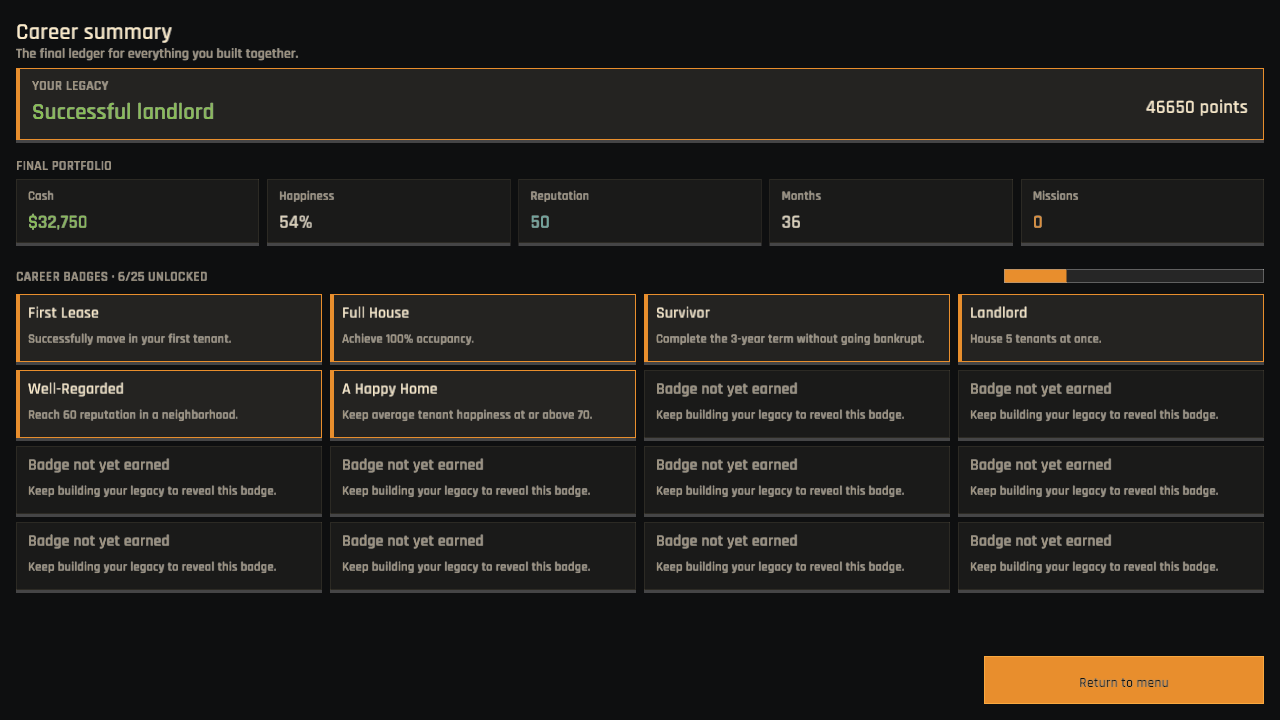
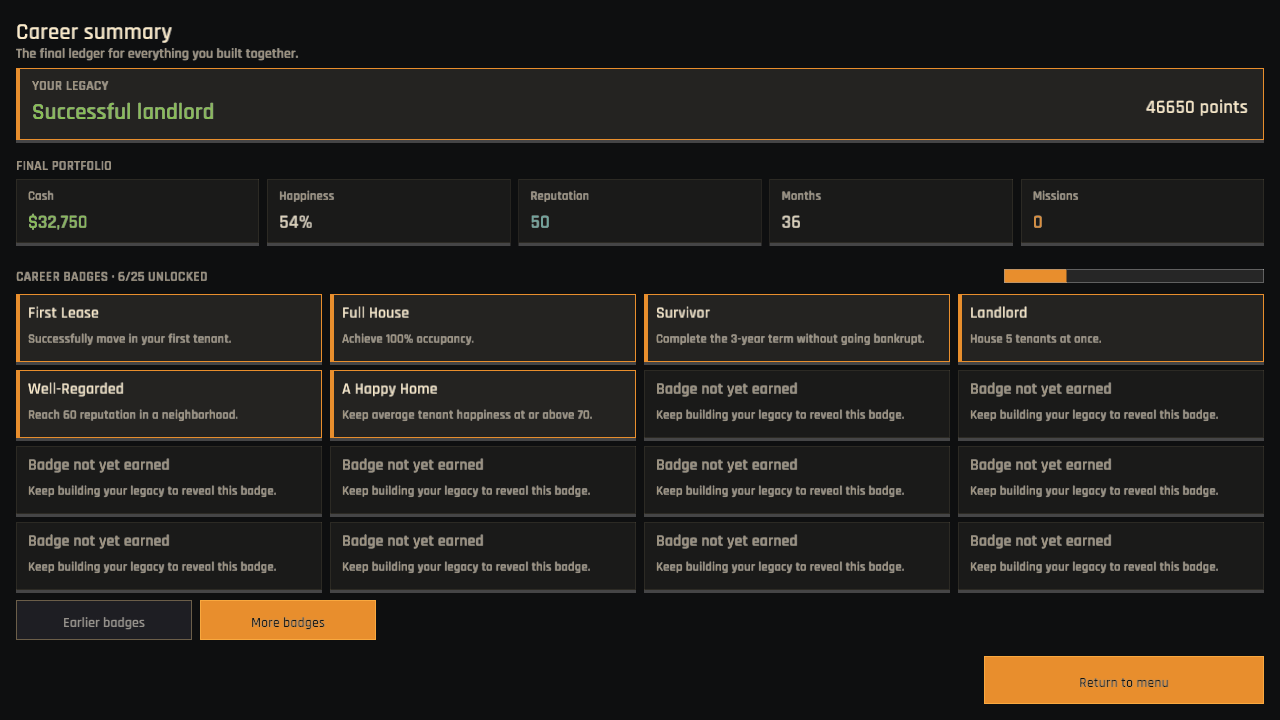
The final ledger turns every badge page before it closes (paged career achievements)
Make all career badges reachable through touch-sized Earlier badges and More badges controls backed by transient page state. Keep earned achievements ordered first, preserve the progress meter, and reserve the permanent Return to menu action at every size.

Add deterministic later-page career captures at desktop and 640x480.

Verified with 131 passing tests (1 ignored), first-page and later-page career captures, formatting, diff and Rust line-count checks, and publish.ps1 for Windows, WebGL, and preview deployment.

Changed region(s): [[0.1562, 0.825, 0.3125, 0.8861], [0.0312, 0.8556, 0.125, 0.8861]]

diff --git a/src/ui/career_summary.rs b/src/ui/career_summary.rs
@@ -61,7 +61,9 @@ pub fn draw_career_summary(state: &GameplayState) -> Option<UiAction> {
     let achievement_y = stat_y + 72.0 + space::LG;
     let button_h = 48.0;
     let button_y = page.bottom() - button_h;
-    draw_achievements(state, page, achievement_y, button_y - space::LG);
+    if let Some(action) = draw_achievements(state, page, achievement_y, button_y - space::LG) {
+        return Some(action);
+    }
 
     let button_w = page.w.min(280.0);
     if button_at(
@@ -203,7 +205,7 @@ fn draw_stat_cards(page: Rect, y: f32, stats: &[(String, String, Color); 5]) {
     }
 }
 
-fn draw_achievements(state: &GameplayState, page: Rect, y: f32, bottom: f32) {
+fn draw_achievements(state: &GameplayState, page: Rect, y: f32, bottom: f32) -> Option<UiAction> {
     let unlocked = state.achievements.unlocked.len();
     let total = state.achievements.list.len().max(1);
     draw_ui_text(
@@ -228,8 +230,13 @@ fn draw_achievements(state: &GameplayState, page: Rect, y: f32, bottom: f32) {
     let columns = if page.w >= 1000.0 { 4 } else { 3 };
     let gap = space::SM;
     let card_h = 68.0;
-    let rows = ((bottom - grid_y + gap) / (card_h + gap)).floor().max(1.0) as usize;
-    let visible = rows * columns;
+    let pager_h = 48.0;
+    let rows = ((bottom - grid_y - pager_h + gap) / (card_h + gap))
+        .floor()
+        .max(1.0) as usize;
+    let page_size = rows * columns;
+    let page_count = total.div_ceil(page_size);
+    let badge_page = state.career_badges_page.min(page_count - 1);
     let card_w = (page.w - gap * (columns - 1) as f32) / columns as f32;
 
     let ordered = state
@@ -244,7 +251,11 @@ fn draw_achievements(state: &GameplayState, page: Rect, y: f32, bottom: f32) {
                 .iter()
                 .filter(|achievement| !state.achievements.is_unlocked(&achievement.id)),
         );
-    for (index, achievement) in ordered.take(visible).enumerate() {
+    for (index, achievement) in ordered
+        .skip(badge_page * page_size)
+        .take(page_size)
+        .enumerate()
+    {
         let row = index / columns;
         let column = index % columns;
         draw_achievement_card(
@@ -258,6 +269,33 @@ fn draw_achievements(state: &GameplayState, page: Rect, y: f32, bottom: f32) {
             ),
         );
     }
+    if page_count > 1 {
+        let controls_y = bottom - 40.0;
+        let controls_w = page.w.min(360.0);
+        let gap = space::SM;
+        let button_w = (controls_w - gap) * 0.5;
+        if button_at(
+            Rect::new(page.x, controls_y, button_w, 40.0),
+            "Earlier badges",
+            badge_page > 0,
+            Tone::Secondary,
+        ) {
+            return Some(UiAction::SetCareerBadgesPage {
+                page: badge_page - 1,
+            });
+        }
+        if button_at(
+            Rect::new(page.x + button_w + gap, controls_y, button_w, 40.0),
+            "More badges",
+            badge_page + 1 < page_count,
+            Tone::Primary,
+        ) {
+            return Some(UiAction::SetCareerBadgesPage {
+                page: badge_page + 1,
+            });
+        }
+    }
+    None
 }
 
 fn draw_achievement_card(state: &GameplayState, achievement: &Achievement, rect: Rect) {

diff --git a/src/state/gameplay.rs b/src/state/gameplay.rs
@@ -137,6 +137,8 @@ pub struct GameplayState {
     #[serde(skip)]
     pub requests_page: usize,
     #[serde(skip)]
+    pub career_badges_page: usize,
+    #[serde(skip)]
     pub show_pause_menu: bool,
     #[serde(skip)]
     pub activity_drawer_open: bool,
@@ -300,6 +302,7 @@ impl GameplayState {
             application_page: 0,
             tenants_page: 0,
             requests_page: 0,
+            career_badges_page: 0,
             show_pause_menu: false,
             activity_drawer_open: false,
             is_fullscreen: false,
@@ -401,6 +404,7 @@ impl GameplayState {
         self.application_page = 0;
         self.tenants_page = 0;
         self.requests_page = 0;
+        self.career_badges_page = 0;
         self.show_pause_menu = false;
         self.activity_drawer_open = false;
         self.pending_quit_to_menu = false;

diff --git a/src/game.rs b/src/game.rs
@@ -185,6 +185,13 @@ impl Game {
                     seed_showcase_career(state);
                 }
             }
+            "career_more_showcase" | "career_more_tiny" => {
+                self.seed_workspace_capture(ViewMode::CareerSummary);
+                if let GameState::Gameplay(state) = &mut self.state {
+                    seed_showcase_career(state);
+                    state.career_badges_page = 1;
+                }
+            }
             "tutorial_showcase" | "tutorial_compact" | "tutorial_wide" => {
                 self.seed_gameplay_capture(false)
             }

diff --git a/src/state/gameplay_actions.rs b/src/state/gameplay_actions.rs
@@ -333,6 +333,9 @@ impl GameplayState {
             UiAction::SetRequestsPage { page } => {
                 self.requests_page = page;
             }
+            UiAction::SetCareerBadgesPage { page } => {
+                self.career_badges_page = page;
+            }
             UiAction::AcceptMission { mission_id } => {
                 if !self.missions.accept_mission(mission_id, self.current_tick) {
                     self.report_action_failure("That task is no longer available");

diff --git a/src/ui.rs b/src/ui.rs
@@ -114,6 +114,9 @@ pub enum UiAction {
     SetRequestsPage {
         page: usize,
     },
+    SetCareerBadgesPage {
+        page: usize,
+    },
     AcceptMission {
         mission_id: u32,
     },
